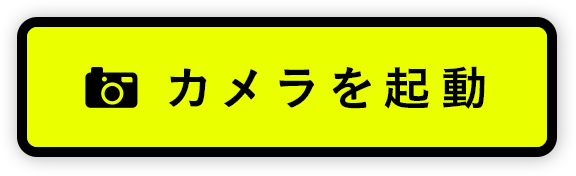
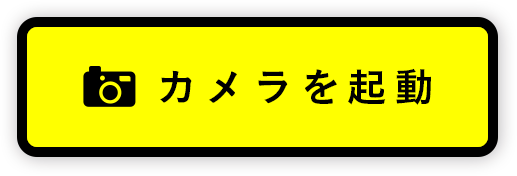
update for recording

Changed region(s): [[0.1238, 0.3693, 0.8665, 0.625], [0.9284, 0.0852, 0.9903, 0.9091], [0.0309, 0.0852, 0.0619, 0.9091]]

diff --git a/public/stylesheets/demo.css b/public/stylesheets/demo.css
@@ -20,8 +20,8 @@ body.face-new {
 
 body.face-new a {
   display: block;
-  /*width: 300px;*/
   height: 88px;
+  width: 259px;
   margin: auto auto;
   margin-top: 370px;
   background-image: url('/images/demo/btn_photo_normal.png');
@@ -40,13 +40,14 @@ body.face-show {
 body.face-show a.demoDownload.touchButton {
   display: block;
   /*width: 300px;*/
-  height: 88px;
+  height: 73px;
+  width: 258px;
   margin: auto auto;
   margin-top: 105px;
   background-image: url('/images/demo/btn_download.png');
   background-repeat: no-repeat;
   background-size: contain;
-  padding-bottom:50px;
+  padding-bottom: 50px;
 }
 
 body.face-show a.demoDownload.touchButton.touched {
@@ -55,16 +56,16 @@ body.face-show a.demoDownload.touchButton.touched {
 
 body.face-show a.backButton.touchButton {
   display: block;
-  /*width: 138.5px;*/
-  height: 23.5px;
-  margin-left: 5px;
+  height: 73px;
+  width: 258px;
+  margin: auto auto;
   margin-top: 145px;
-  margin-bottom:20px;
-  background-image: url('/images/demo/btn_back.png');
+  margin-bottom: 20px;
+  background-image: url('/images/demo/btn_retry.png');
   background-repeat: no-repeat;
   background-size: contain;
 }
 
 body.face-show a.backButton.touchButton.touched {
-  background-image: url('/images/demo/btn_back_on.png');
+  background-image: url('/images/demo/btn_retry_on.png');
 }

diff --git a/public/javascripts/demo.js b/public/javascripts/demo.js
@@ -7,10 +7,23 @@ $(function() {
 
   $('input#demoImageBtn').on('change', function(event) {
     var div = document.createElement('div')
-      , spinner = new Spinner({ color: '#fff' }).spin(div);
+      , spinner = new Spinner({
+            color: '#fff'
+          , lines: 13
+          , length: 5
+          , width: 2
+          , radius: 6
+          , corners: 1.0
+          , rotate: 0
+          , trail: 60
+          , speed: 1.0
+        }).spin(div);
     
     $.blockUI({ message: div });
-    $('form#demoForm').trigger('submit');
+    
+    $(document.body).one('click touchstart', function() {
+      $('form#demoForm').trigger('submit');      
+    });
   });
   
   $('#demoCapture').on('click', function(event) {
